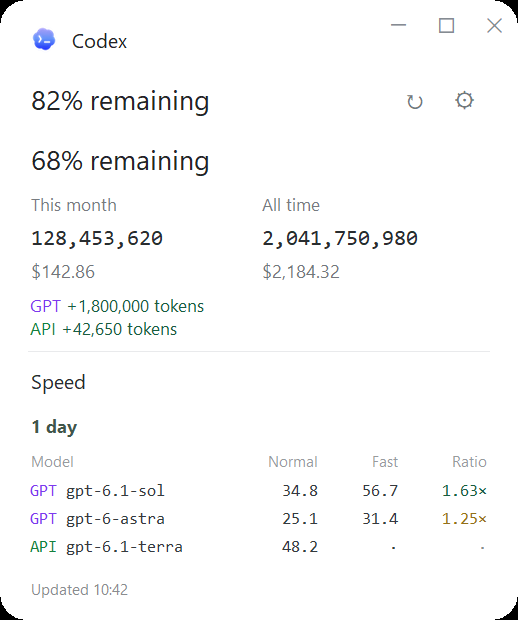
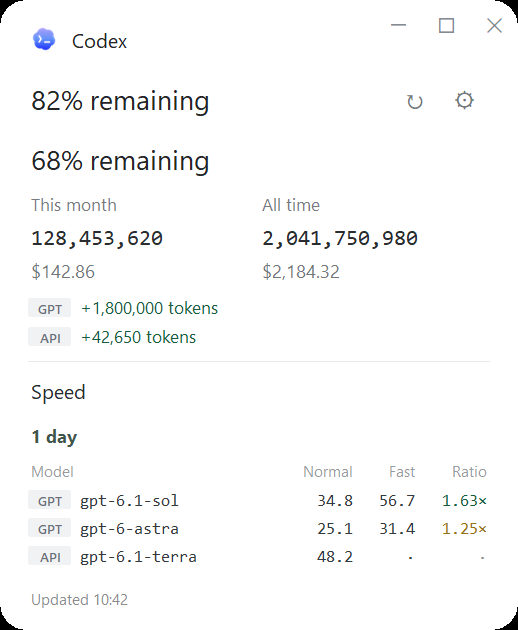
Use neutral aligned account tags instead of identity colors

diff --git a/meter.py b/meter.py
@@ -41,7 +41,7 @@ VENDOR = SPEED.parent / 'vendor'
 UPSTREAM = 'https://gist.githubusercontent.com/pszemraj/f8fe69ff5002c3bd0825edfd02001635/raw/codex_speed.py'
 CREATE = 0x08000000 if os.name == 'nt' else 0
 PYTHON = str(Path(sys.executable).with_name('python.exe')) if Path(sys.executable).name.lower() == 'pythonw.exe' else sys.executable
-VERSION = '1.1.2'
+VERSION = '1.1.3'
 REPOSITORY = 'https://github.com/HenryTeo27/ai-agent-usage-speed-app'
 CONTENT_PAD = 28
 SETTINGS_WRAP = 450
@@ -67,10 +67,8 @@ DARK_COLORS = {
     '#42474b':'#cbd3db', '#858b92':'#929aa3', '#e9ecee':'#333a42', '#f2f4f3':'#2c333b',
     '#e9eaec':'#343c45', '#41564b':'#b8d3c3', '#f0f4f1':'#27382f',
     '#185c40':'#82cda8', '#947019':'#dfbd73', '#9b3038':'#ec929a',
-    '#7c3aed':'#b69aff', '#15803d':'#72d6a0', '#1d4ed8':'#8db5ff',
-    '#b45309':'#ffbf70', '#be185d':'#f6a0cb', '#0e7490':'#76d6e8',
+    '#f1f2f4':'#2b3037', '#6b7078':'#aeb7c2',
 }
-ACCOUNT_COLORS=('#7c3aed','#15803d','#1d4ed8','#b45309','#be185d','#0e7490')
 
 
 def theme_color(color, dark):
@@ -90,13 +88,16 @@ def load_gui():
     import pystray
     from PIL import Image, ImageTk
 
-    class AccountLabel(tk.Text):
-        """Read-only text with a separately colored account prefix on each line."""
+    class AccountLabel(tk.Frame):
+        """Aligned neutral identity tags beside normally styled values."""
         def __init__(self,parent,app,font,color):
-            self.app=app;self.text_value=''
-            super().__init__(parent,font=font,height=1,width=1,bd=0,highlightthickness=0,
-                             padx=2,pady=1,state='disabled',cursor='arrow',takefocus=False,
-                             wrap='none',bg=app.bg,fg=app.color(color))
+            from tkinter import font as tkfont
+            self.app=app;self.text_value='';self.rows=[];self.value_font=font;self.value_color=color
+            super().__init__(parent,bg=app.bg,bd=0)
+            self.tag_font=tkfont.Font(root=app.root,font=('Segoe UI Semibold',8))
+            self.tag_width=self.tag_font.measure('GPT2')+12
+            self.tag_height=self.tag_font.metrics('linespace')+2
+            self.configure(text='')
         def cget(self,key):
             return self.text_value if key=='text' else super().cget(key)
         def configure(self,cnf=None,**kw):
@@ -104,17 +105,47 @@ def load_gui():
             result=super().configure(cnf,**kw)
             if value is not None:
                 self.text_value=value
-                super().configure(state='normal',height=max(1,len(value.splitlines())))
-                self.delete('1.0','end');self.insert('1.0',value)
-                for line,text in enumerate(value.splitlines(),1):
+                lines=value.splitlines() or ['']
+                while len(self.rows)>len(lines): self.rows.pop()['frame'].destroy()
+                for index,text in enumerate(lines):
+                    if index==len(self.rows):
+                        row=tk.Frame(self,bg=self.app.bg);row.pack(fill='x')
+                        badge=tk.Canvas(row,width=self.tag_width,height=self.tag_height,
+                                        bg=self.app.bg,highlightthickness=0,bd=0)
+                        width,height=self.tag_width,self.tag_height
+                        badge.create_polygon(4,0,width-4,0,width,0,width,4,width,height-4,
+                                             width,height,width-4,height,4,height,0,height,
+                                             0,height-4,0,4,0,0,smooth=True,splinesteps=16,
+                                             fill=self.app.color('#f1f2f4'),outline='',tags='account_bg')
+                        badge.create_text(width/2,height/2,text='',font=self.tag_font,
+                                          fill=self.app.color('#6b7078'),tags='account_text')
+                        label=tk.Label(row,text='',bg=self.app.bg,fg=self.app.color(self.value_color),
+                                       font=self.value_font,anchor='w',padx=0,pady=1)
+                        label.pack(side='right',fill='x',expand=True)
+                        self.rows.append({'frame':row,'badge':badge,'value':label})
+                    item=self.rows[index]
                     match=re.match(r'^(GPT\d*|API\d*|Codex\d*) ',text)
                     if match:
-                        tag='account_'+match[1]
-                        self.tag_configure(tag,foreground=self.app.color(self.app.account_color(match[1])))
-                        self.tag_add(tag,f'{line}.0',f'{line}.{len(match[1])}')
-                super().configure(state='disabled')
+                        badge=item['badge']
+                        width=max(self.tag_width,self.tag_font.measure(match[1])+12);height=self.tag_height
+                        badge.configure(width=width)
+                        badge.coords('account_bg',4,0,width-4,0,width,0,width,4,width,height-4,
+                                     width,height,width-4,height,4,height,0,height,
+                                     0,height-4,0,4,0,0)
+                        badge.coords('account_text',width/2,height/2)
+                        badge.itemconfigure('account_text',text=match[1])
+                        if not badge.winfo_manager(): badge.pack(side='left',padx=(0,7),before=item['value'])
+                        item['value'].configure(text=text[match.end():])
+                    else:
+                        item['badge'].pack_forget();item['value'].configure(text=text)
             return result
         config=configure
+        def refresh_style(self):
+            for item in self.rows:
+                item['frame'].configure(bg=self.app.bg);item['badge'].configure(bg=self.app.bg)
+                item['badge'].itemconfigure('account_bg',fill=self.app.color('#f1f2f4'))
+                item['badge'].itemconfigure('account_text',fill=self.app.color('#6b7078'))
+                item['value'].configure(bg=self.app.bg,fg=self.app.color(self.value_color))
 
 
 def load_icon(size):
@@ -780,16 +811,6 @@ class App:
 
     def color(self,value): return theme_color(value,self.dark)
 
-    def account_color(self,short):
-        names=getattr(self,'account_order',None)
-        if names is None:
-            names=list(account_names(codex_homes()).values());self.account_order=names
-        for key in ('usage','speed'):
-            for item in self.data.get(key,{}).get('sources',[]):
-                if item.get('short') and item['short'] not in names: names.append(item['short'])
-        index=names.index(short) if short in names else 0
-        return ACCOUNT_COLORS[index%len(ACCOUNT_COLORS)]
-
     def update_logo(self):
         self.logo=ImageTk.PhotoImage(themed_icon(32,self.dark).resize((28,28),Image.Resampling.LANCZOS),master=self.root)
         self.logo_widget.configure(image=self.logo)
@@ -852,9 +873,7 @@ class App:
                 widget.itemconfigure('badge_bg',fill=self.color('#f0f4f1'))
                 widget.itemconfigure('badge_text',fill=self.color('#41564b'))
             if isinstance(widget,AccountLabel):
-                for tag in widget.tag_names():
-                    if tag.startswith('account_'):
-                        widget.tag_configure(tag,foreground=self.color(self.account_color(tag[8:])))
+                widget.refresh_style()
             for child in widget.winfo_children(): recolor(child)
         recolor(self.root);self.configure_ttk();self.theme_caption(self.root)
         window=getattr(self,'settings_window',None)

diff --git a/README.md b/README.md
@@ -76,7 +76,7 @@ Costs are estimated API-equivalent costs from [ccusage](https://github.com/ccusa
 
 ### Accounts and local homes
 
-The app looks for `~/.codex`, other `~/.codex*` directories containing Codex config, credentials or sessions, and the current or Windows-saved `CODEX_HOME`. To add homes elsewhere, set the Windows user environment variable `CODEX_METER_EXTRA_HOMES` to their full paths separated by semicolons, then reopen Settings. Each home appears under **Local Codex accounts**. Account prefixes use purple, green, blue, orange, pink and cyan in source order, with lighter variants in dark mode. Models and numbers retain their usual colors. GPT, API, GPT2 and API2 are short local source names; the directory and available plan details identify each entry in Settings.
+The app looks for `~/.codex`, other `~/.codex*` directories containing Codex config, credentials or sessions, and the current or Windows-saved `CODEX_HOME`. To add homes elsewhere, set the Windows user environment variable `CODEX_METER_EXTRA_HOMES` to their full paths separated by semicolons, then reopen Settings. Each home appears under **Local Codex accounts**. Account names use compact neutral gray tags, aligned in the token-change area and speed tables. Models and numbers retain their usual colors; green token increases and speed ratio colors keep their existing meanings. GPT, API, GPT2 and API2 are short local source names; the directory and available plan details identify each entry in Settings.
 
 Account switches save immediately. Disabled sources are excluded from displayed totals, deltas and speed rows and are skipped by subsequent refreshes. A refresh already running finishes with the selection captured at its start. Re-enabling a source displays its cached data until the next refresh. The first successful scan of a newly enabled source establishes its token-change baseline.
 
